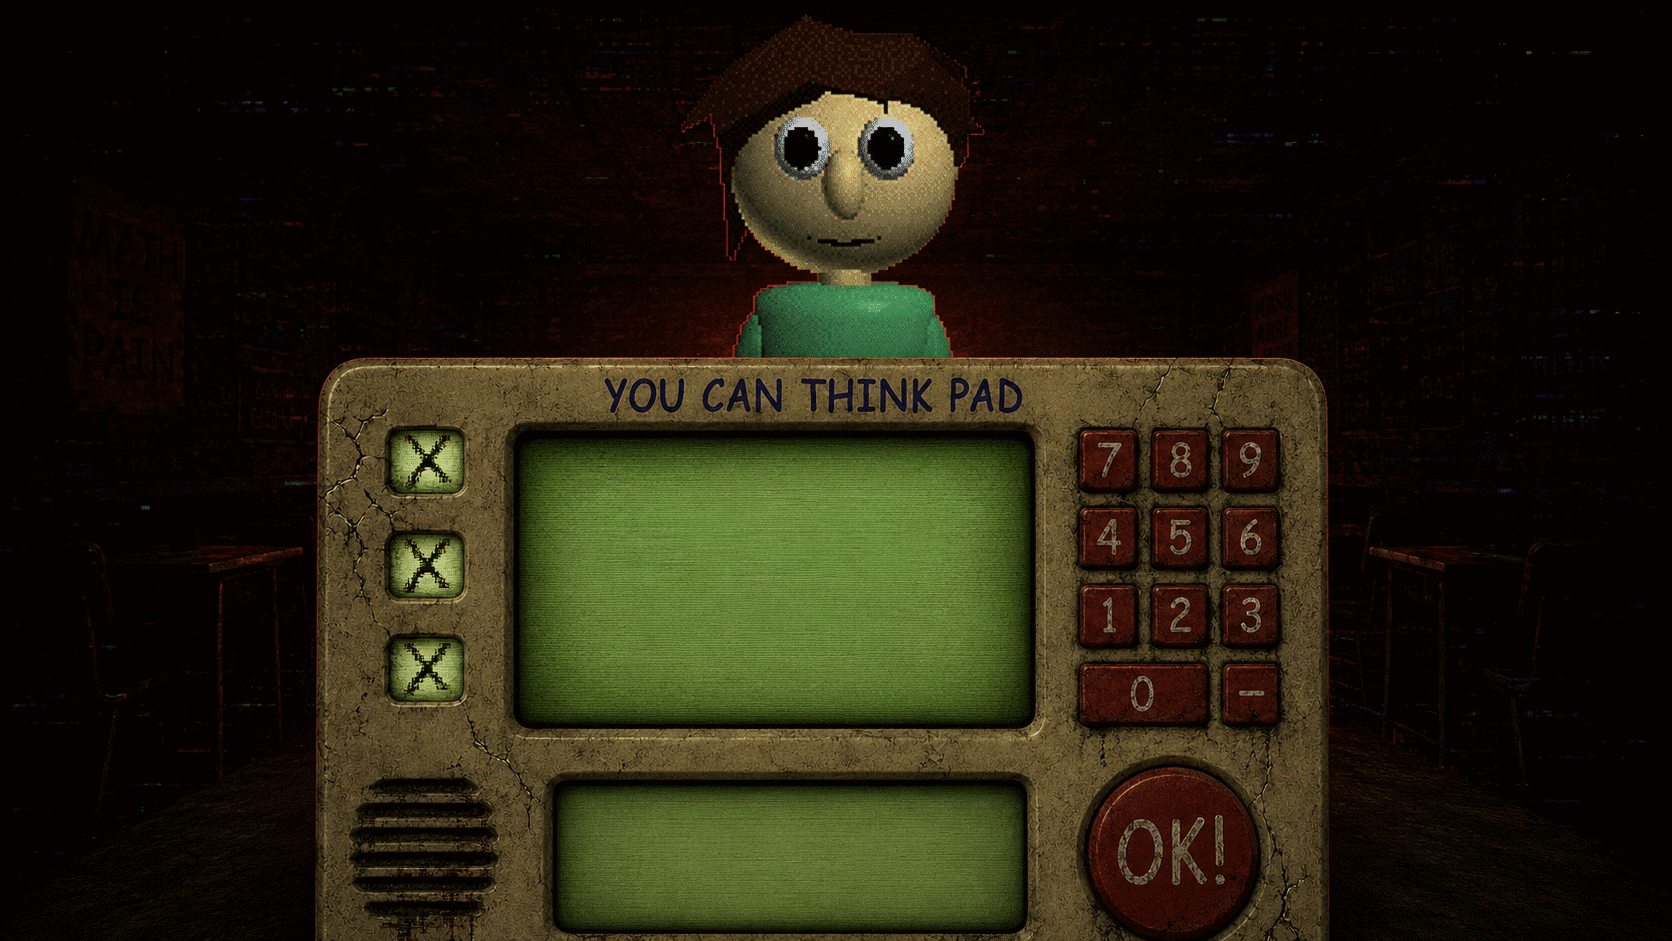
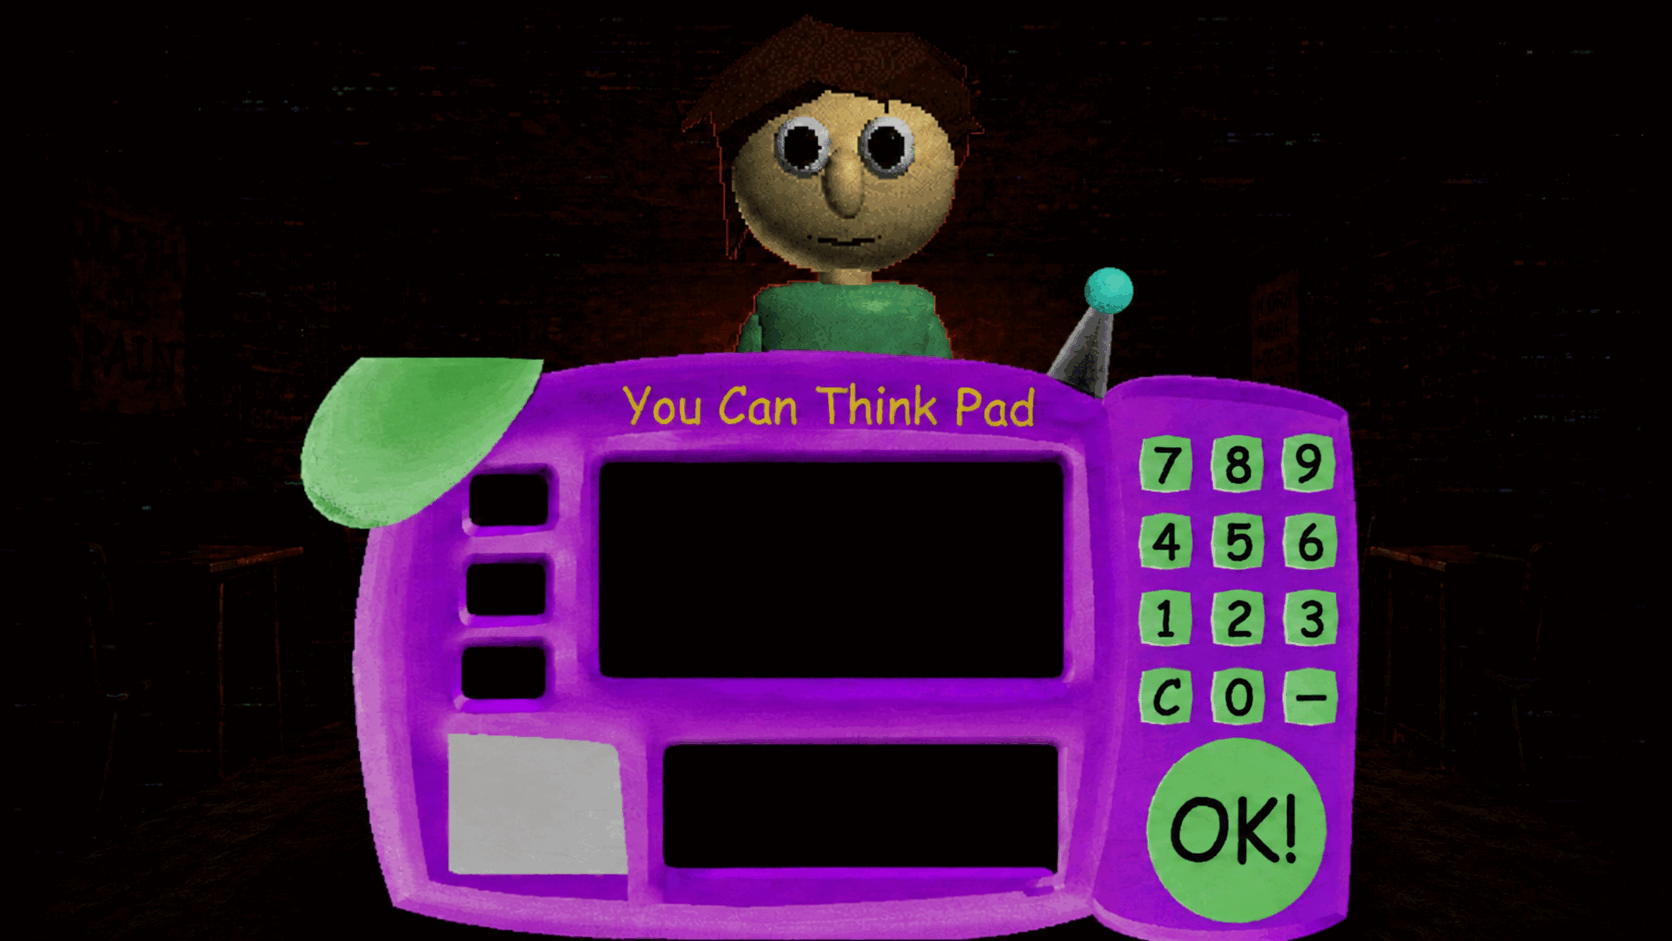
Replace Phase 3 password screen with cursed Think Pad

diff --git a/Tools/verify_phase3_password_screen.py b/Tools/verify_phase3_password_screen.py
@@ -1,0 +1,146 @@
+from pathlib import Path
+import re
+
+from PIL import Image
+
+
+ROOT = Path(__file__).resolve().parents[1]
+IMAGE_PATH = ROOT / "Assets/Resources/CursedMod/Phase3Password.png"
+SCREEN_PATH = ROOT / "Assets/CursedMod/CursedPhase3Screen.cs"
+
+WIDTH = 1672
+HEIGHT = 941
+
+
+image = Image.open(IMAGE_PATH).convert("RGB")
+assert image.size == (WIDTH, HEIGHT), f"Phase3Password.png is {image.size}, expected {(WIDTH, HEIGHT)}"
+
+pixels = image.load()
+device_pixels = [
+    pixels[x, y]
+    for y in range(350, HEIGHT)
+    for x in range(280, 1370)
+]
+magenta_pixels = sum(
+    red > 120 and blue > 100 and red > green * 1.4 and blue > green * 1.3
+    for red, green, blue in device_pixels
+)
+brown_pixels = sum(
+    red > 80 and red > green * 1.2 and green > blue * 1.1
+    for red, green, blue in device_pixels
+)
+assert magenta_pixels > 200_000, "Phase 3 still uses the old brown Think Pad artwork"
+assert brown_pixels < 20_000, "old brown Think Pad remains visible in the Phase 3 asset"
+
+for name, bounds in {
+    "upper display": (620, 480, 1050, 660),
+    "answer display": (680, 770, 1030, 850),
+}.items():
+    left, top, right, bottom = bounds
+    channel_total = 0
+    sample_count = 0
+    for y in range(top, bottom):
+        for x in range(left, right):
+            channel_total += sum(pixels[x, y])
+            sample_count += 3
+    assert channel_total / sample_count < 15, f"{name} is not clean and empty"
+
+source = SCREEN_PATH.read_text(encoding="utf-8")
+
+def method_body(signature):
+    match = re.search(signature + r"\s*\{(.*?)\n    \}", source, re.DOTALL)
+    assert match is not None, f"missing layout helper: {signature}"
+    return match.group(1)
+
+
+anchor_min_body = method_body(
+    r"private static Vector2 PixelAnchorMin\(float left, float bottom\)"
+)
+anchor_max_body = method_body(
+    r"private static Vector2 PixelAnchorMax\(float right, float top\)"
+)
+text_helper_body = method_body(
+    r"private Text MakeTextFromPixels\(string objectName, float left, float top, "
+    r"float right, float bottom, int fontSize\)"
+)
+click_helper_body = method_body(
+    r"private void MakeClickAreaFromPixels\(string objectName, float left, float top, "
+    r"float right, float bottom, UnityAction action\)"
+)
+
+assert "new Vector2(left / 1672f, 1f - bottom / 941f)" in anchor_min_body
+assert "new Vector2(right / 1672f, 1f - top / 941f)" in anchor_max_body
+assert (
+    "MakeText(objectName, PixelAnchorMin(left, bottom), "
+    "PixelAnchorMax(right, top), fontSize)" in text_helper_body
+)
+assert re.search(
+    r"Make(?:TouchButton|ClickArea)\(objectName, PixelAnchorMin\(left, bottom\), "
+    r"PixelAnchorMax\(right, top\), action\)",
+    click_helper_body,
+), "click areas do not delegate through the artwork-relative anchors"
+
+digit_pattern = re.compile(
+    r"CreateDigitButtonFromPixels\((\d),\s*"
+    r"([\d.]+)f,\s*([\d.]+)f,\s*([\d.]+)f,\s*([\d.]+)f\);"
+)
+action_pattern = re.compile(
+    r'MakeClickAreaFromPixels\("([^"]+)",\s*'
+    r"([\d.]+)f,\s*([\d.]+)f,\s*([\d.]+)f,\s*([\d.]+)f,\s*"
+    r"(ClearPassword|Backspace|SubmitPassword)\);"
+)
+
+regions = {
+    str(digit): (float(left), float(top), float(right), float(bottom))
+    for digit, left, top, right, bottom in digit_pattern.findall(source)
+}
+regions.update({
+    action: (float(left), float(top), float(right), float(bottom))
+    for _, left, top, right, bottom, action in action_pattern.findall(source)
+})
+
+expected = {
+    "7": (1135.0, 430.0, 1197.0, 497.0),
+    "8": (1207.0, 430.0, 1268.0, 497.0),
+    "9": (1278.0, 429.0, 1340.0, 497.0),
+    "4": (1135.0, 508.0, 1197.0, 574.0),
+    "5": (1207.0, 508.0, 1269.0, 574.0),
+    "6": (1279.0, 508.0, 1342.0, 574.0),
+    "1": (1134.0, 585.0, 1197.0, 651.0),
+    "2": (1207.0, 585.0, 1269.0, 650.0),
+    "3": (1279.0, 585.0, 1343.0, 650.0),
+    "ClearPassword": (1135.0, 663.0, 1197.0, 730.0),
+    "0": (1207.0, 663.0, 1270.0, 730.0),
+    "Backspace": (1279.0, 663.0, 1342.0, 730.0),
+    "SubmitPassword": (1142.0, 733.0, 1331.0, 927.0),
+}
+assert regions == expected, f"Phase 3 hitboxes are {regions!r}, expected {expected!r}"
+
+items = list(regions.items())
+for index, (name, (left, top, right, bottom)) in enumerate(items):
+    assert 0 <= left < right <= WIDTH and 0 <= top < bottom <= HEIGHT, f"{name} is outside the artwork"
+    for other_name, (other_left, other_top, other_right, other_bottom) in items[index + 1:]:
+        overlap = left < other_right and right > other_left and top < other_bottom and bottom > other_top
+        assert not overlap, f"{name} overlaps {other_name}"
+
+text_pattern = re.compile(
+    r'MakeTextFromPixels\("([^"]+)",\s*'
+    r"([\d.]+)f,\s*([\d.]+)f,\s*([\d.]+)f,\s*([\d.]+)f,\s*(\d+)\)"
+)
+texts = {
+    name: (float(left), float(top), float(right), float(bottom), int(size))
+    for name, left, top, right, bottom, size in text_pattern.findall(source)
+}
+assert texts == {
+    "Password Prompt": (620.0, 480.0, 1050.0, 660.0, 54),
+    "Entered Password": (680.0, 770.0, 1030.0, 850.0, 70),
+}, f"Phase 3 text layers miss the empty displays: {texts!r}"
+
+assert 'prompt.text = "ENTER PASSWORD";' in source
+assert "prompt.color = Color.white;" in source
+assert "enteredText.color = Color.white;" in source
+assert 'Resources.Load<Texture2D>("CursedMod/Phase3Password")' in source
+
+print("PASS: Phase 3 uses the clean purple cursed Think Pad artwork")
+print("PASS: password text stays inside the two empty black displays")
+print("PASS: every visible Phase 3 key maps to one non-overlapping action")

diff --git a/Assets/CursedMod/CursedPhase3Screen.cs b/Assets/CursedMod/CursedPhase3Screen.cs
@@ -85,29 +85,32 @@ public sealed class CursedPhase3Screen : MonoBehaviour
         background.color = Color.white;
         background.raycastTarget = false;
 
-        Text prompt = MakeText("Password Prompt", new Vector2(0.306f, 0.225f), new Vector2(0.620f, 0.541f), 54);
-        prompt.text = "Enter the password";
-        prompt.color = new Color(0.78f, 0.015f, 0.015f, 1f);
+        Text prompt = MakeTextFromPixels("Password Prompt", 620f, 480f, 1050f, 660f, 54);
+        prompt.text = "ENTER PASSWORD";
+        prompt.color = Color.white;
 
-        enteredText = MakeText("Entered Password", new Vector2(0.331f, 0.010f), new Vector2(0.616f, 0.170f), 70);
-        enteredText.color = new Color(0.72f, 0.01f, 0.01f, 1f);
+        enteredText = MakeTextFromPixels("Entered Password", 680f, 770f, 1030f, 850f, 70);
+        enteredText.color = Color.white;
         RefreshEnteredText();
 
-        MakeTouchButton("Clear Password Top", new Vector2(0.229f, 0.466f), new Vector2(0.281f, 0.548f), ClearPassword);
-        MakeTouchButton("Clear Password Middle", new Vector2(0.229f, 0.378f), new Vector2(0.281f, 0.461f), ClearPassword);
-        MakeTouchButton("Clear Password Bottom", new Vector2(0.229f, 0.291f), new Vector2(0.281f, 0.374f), ClearPassword);
-        CreateDigitButton(7, new Vector2(0.644f, 0.474f), new Vector2(0.681f, 0.545f));
-        CreateDigitButton(8, new Vector2(0.686f, 0.474f), new Vector2(0.724f, 0.545f));
-        CreateDigitButton(9, new Vector2(0.729f, 0.474f), new Vector2(0.767f, 0.545f));
-        CreateDigitButton(4, new Vector2(0.644f, 0.395f), new Vector2(0.681f, 0.462f));
-        CreateDigitButton(5, new Vector2(0.686f, 0.395f), new Vector2(0.724f, 0.462f));
-        CreateDigitButton(6, new Vector2(0.729f, 0.395f), new Vector2(0.767f, 0.462f));
-        CreateDigitButton(1, new Vector2(0.644f, 0.310f), new Vector2(0.681f, 0.380f));
-        CreateDigitButton(2, new Vector2(0.686f, 0.310f), new Vector2(0.724f, 0.380f));
-        CreateDigitButton(3, new Vector2(0.729f, 0.310f), new Vector2(0.767f, 0.380f));
-        CreateDigitButton(0, new Vector2(0.643f, 0.226f), new Vector2(0.724f, 0.296f));
-        MakeTouchButton("Backspace", new Vector2(0.729f, 0.226f), new Vector2(0.767f, 0.296f), Backspace);
-        MakeTouchButton("Submit Password", new Vector2(0.644f, 0.015f), new Vector2(0.769f, 0.190f), SubmitPassword);
+        CreateDigitButtonFromPixels(7, 1135f, 430f, 1197f, 497f);
+        CreateDigitButtonFromPixels(8, 1207f, 430f, 1268f, 497f);
+        CreateDigitButtonFromPixels(9, 1278f, 429f, 1340f, 497f);
+        CreateDigitButtonFromPixels(4, 1135f, 508f, 1197f, 574f);
+        CreateDigitButtonFromPixels(5, 1207f, 508f, 1269f, 574f);
+        CreateDigitButtonFromPixels(6, 1279f, 508f, 1342f, 574f);
+        CreateDigitButtonFromPixels(1, 1134f, 585f, 1197f, 651f);
+        CreateDigitButtonFromPixels(2, 1207f, 585f, 1269f, 650f);
+        CreateDigitButtonFromPixels(3, 1279f, 585f, 1343f, 650f);
+        MakeClickAreaFromPixels("Clear Password", 1135f, 663f, 1197f, 730f, ClearPassword);
+        CreateDigitButtonFromPixels(0, 1207f, 663f, 1270f, 730f);
+        MakeClickAreaFromPixels("Backspace", 1279f, 663f, 1342f, 730f, Backspace);
+        MakeClickAreaFromPixels("Submit Password", 1142f, 733f, 1331f, 927f, SubmitPassword);
+    }
+
+    private Text MakeTextFromPixels(string objectName, float left, float top, float right, float bottom, int fontSize)
+    {
+        return MakeText(objectName, PixelAnchorMin(left, bottom), PixelAnchorMax(right, top), fontSize);
     }
 
     private Text MakeText(string objectName, Vector2 anchorMin, Vector2 anchorMax, int fontSize)
@@ -131,10 +134,31 @@ public sealed class CursedPhase3Screen : MonoBehaviour
         return text;
     }
 
-    private void CreateDigitButton(int digit, Vector2 anchorMin, Vector2 anchorMax)
+    private void CreateDigitButtonFromPixels(int digit, float left, float top, float right, float bottom)
     {
         int capturedDigit = digit;
-        MakeTouchButton("Digit " + digit, anchorMin, anchorMax, delegate { AddDigit(capturedDigit); });
+        MakeClickAreaFromPixels(
+            "Digit " + digit,
+            left,
+            top,
+            right,
+            bottom,
+            delegate { AddDigit(capturedDigit); });
+    }
+
+    private void MakeClickAreaFromPixels(string objectName, float left, float top, float right, float bottom, UnityAction action)
+    {
+        MakeTouchButton(objectName, PixelAnchorMin(left, bottom), PixelAnchorMax(right, top), action);
+    }
+
+    private static Vector2 PixelAnchorMin(float left, float bottom)
+    {
+        return new Vector2(left / 1672f, 1f - bottom / 941f);
+    }
+
+    private static Vector2 PixelAnchorMax(float right, float top)
+    {
+        return new Vector2(right / 1672f, 1f - top / 941f);
     }
 
     private void MakeTouchButton(string objectName, Vector2 anchorMin, Vector2 anchorMax, UnityAction action)
